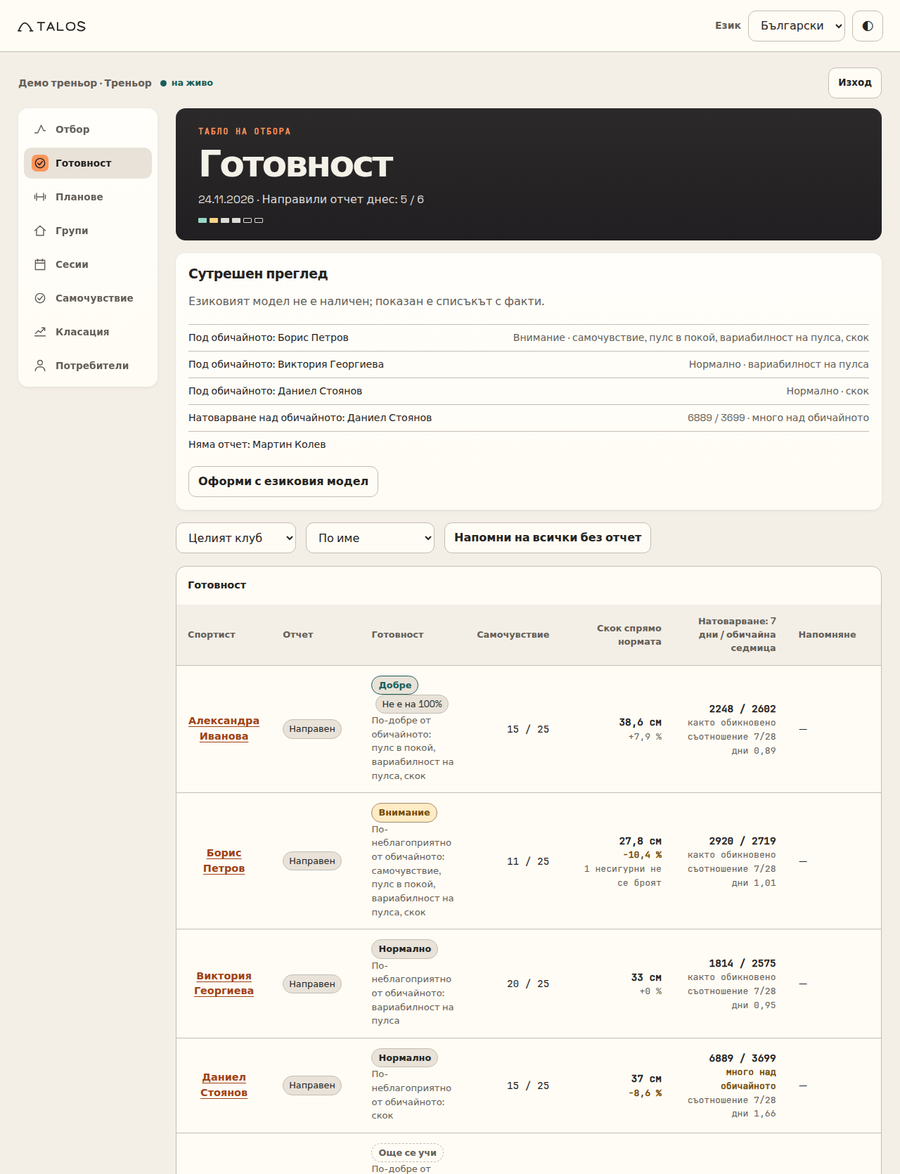
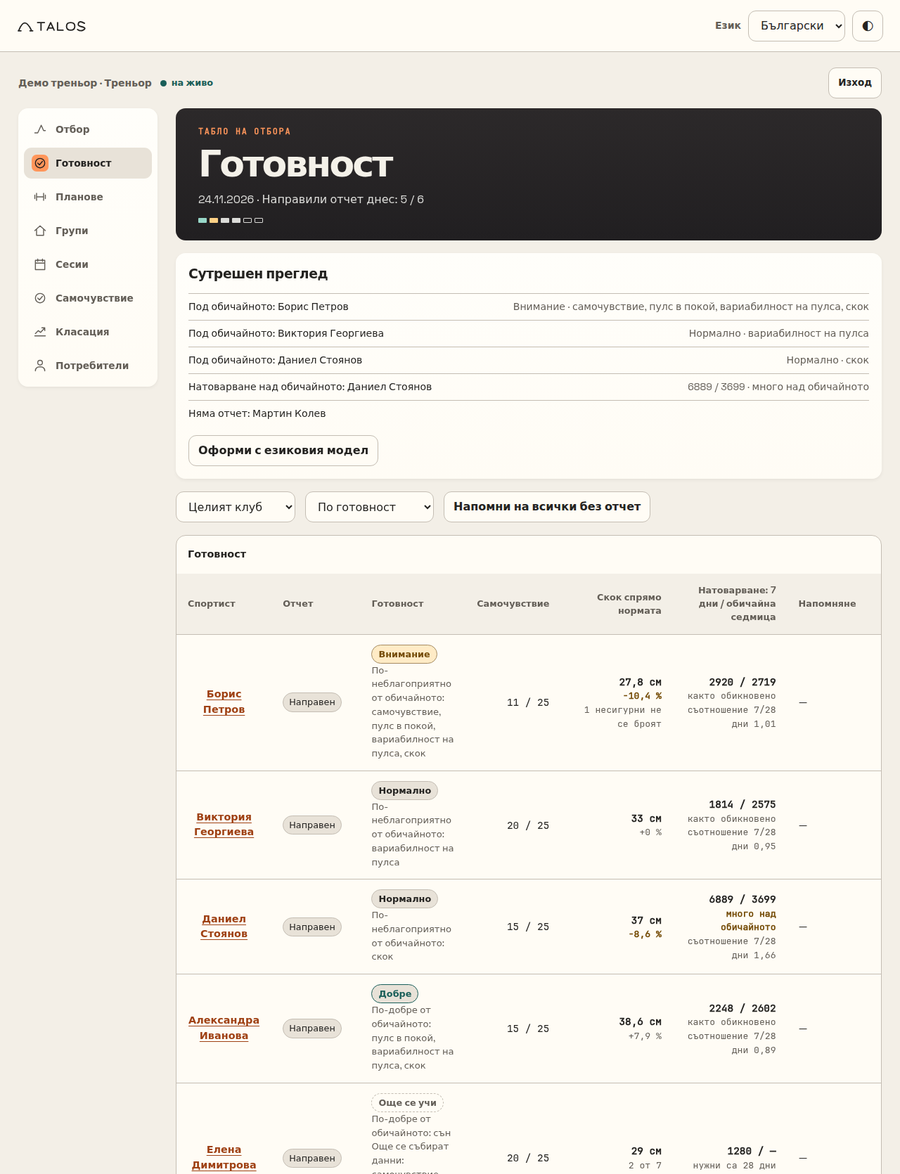
Close the staff path for minors' data to an external model, and fix the stale facts round 4 found
With an external language model, assistant tools refuse requests about athletes under 18 and drop their rows from
list results for coaches and admins, and the coach's morning summary is phrased without their facts (the coach
still sees them in the plain list). Tests cover the staff path, the digest, and a local-model control. The app,
dashboard and documents describe the rule. Dated verification lines, the AI-tools draft and the guide name the
current version; the documentation's coach-board screenshot shows the default state instead of a test server
without a model.

diff --git a/server/static/dashboard.js b/server/static/dashboard.js
@@ -89,7 +89,7 @@ const dictionary = {
     unclear:'Неясно', repsCount:'Повторения', partialCount:'Частични', unclearCount:'Неясни', worstRep:'Най-слабо',
     side:'Страна', viewLabel:'Изглед', front:'Отпред', sideView:'Отстрани', unclear_reps:'Неясни повторения',
     hipBelowKnee:'Таз под коляното', noForm:'Още няма записи на техника.', formWarnNote:'Частичните и неясните повторения се броят отделно.',
-    assistantIntro:'Питайте за тренировки, хранене и тестове. Всяка промяна се потвърждава от Вас.'+' Съобщенията Ви и данните, нужни за отговора, се изпращат на езиковия модел на клуба, който може да е облачна услуга; видео никога. Под 18 години асистентът работи само с модел на самия клуб.',
+    assistantIntro:'Питайте за тренировки, хранене и тестове. Всяка промяна се потвърждава от Вас.'+' Съобщенията Ви и данните, нужни за отговора, се изпращат на езиковия модел на клуба, който може да е облачна услуга; видео никога. Данни на спортисти под 18 години отиват само към модел на самия клуб.',
     assistantPlaceholder:'Напишете съобщение…', messageLabel:'Съобщение', ask:'Попитайте', assistantReply:'Отговор',
     proposalTitle:'Предложени действия', proposalNote:'Нищо не се записва, докато не потвърдите.', confirm:'Потвърдете',
     assistantUnavailable:'Помощникът с изкуствен интелект не е наличен в момента. Опитайте по-късно.', assistantApplied:'Действията са приложени.',
@@ -184,7 +184,7 @@ const dictionary = {
     unclear:'Unclear', repsCount:'Reps', partialCount:'Partial', unclearCount:'Unclear', worstRep:'Worst',
     side:'Side', viewLabel:'View', front:'Front', sideView:'Side', unclear_reps:'Unclear reps',
     hipBelowKnee:'Hips below knee', noForm:'No form sets yet.', formWarnNote:'Partial and unclear repetitions are counted separately.',
-    assistantIntro:'Ask about training, nutrition and testing. Every change is confirmed by you.'+' Your messages and the data needed to answer go to the club\'s language model, which may be a cloud service; never video. Under 18, the assistant works only with a model run by the club itself.',
+    assistantIntro:'Ask about training, nutrition and testing. Every change is confirmed by you.'+' Your messages and the data needed to answer go to the club\'s language model, which may be a cloud service; never video. Data of athletes under 18 goes only to a model run by the club itself.',
     assistantPlaceholder:'Type a message…', messageLabel:'Message', ask:'Ask', assistantReply:'Reply',
     proposalTitle:'Proposed actions', proposalNote:'Nothing is saved until you confirm.', confirm:'Confirm',
     assistantUnavailable:'The AI assistant is unavailable right now. Try again later.', assistantApplied:'The actions were applied.',

diff --git a/server/assistant_api.py b/server/assistant_api.py
@@ -185,6 +185,24 @@ MINOR_CLOUD_DETAIL = ("The assistant uses an external (cloud) language model, so
                       "Асистентът използва външен (облачен) езиков модел и не е достъпен за спортисти под 18 години.")
 
 
+def minor_ids(db):
+    return {row[0] for row in db.execute("SELECT id FROM users WHERE role = 'athlete' AND under_18 = 1")}
+
+
+def without_minors(value, minors):
+    """Drop every record that belongs to an athlete under 18 (by athlete_id, or a user row by id) from a result."""
+    if isinstance(value, list):
+        return [without_minors(item, minors) for item in value
+                if not (isinstance(item, dict) and (item.get("athlete_id") in minors or
+                                                    ("name" in item and item.get("id") in minors)))]
+    if isinstance(value, dict):
+        return {key: without_minors(item, minors) for key, item in value.items()}
+    return value
+
+
+MINOR_DATA_DETAIL = "Data of athletes under 18 is not sent to an external (cloud) language model."
+
+
 def model_client():
     url = os.environ.get("JUMPSCAN_LLM_URL", "").strip()
     model = os.environ.get("JUMPSCAN_LLM_MODEL", "").strip()
@@ -532,6 +550,10 @@ def install(app, h, operations):
             return {"error": "Unknown tool"}
         try:
             args = tool.arguments(raw)
+            # Privacy: with an external model, nothing about a minor goes into the conversation, whoever asks.
+            minors = minor_ids(db) if model_is_external() else set()
+            if args.get("athlete_id") in minors:
+                return {"status": 403, "error": MINOR_DATA_DETAIL}
             result = invoke(name, tool, args, user, db)
         except ValidationError as error:
             kind = error.errors(include_input=False, include_url=False, include_context=False)[0]["type"]
@@ -541,7 +563,7 @@ def install(app, h, operations):
         except HTTPException as error:
             return {"status": error.status_code, "error": error.detail}
         if tool.body is None:
-            return {"data": result}
+            return {"data": without_minors(result, minors) if minors else result}
         action = {"tool": name, "args": args, "human_summary": describe_action(name, tool, args)}
         actions.append(action)
         return {"pending_confirmation": action["human_summary"]}

diff --git a/server/test_readiness.py b/server/test_readiness.py
@@ -423,3 +423,36 @@ def test_seeded_board_shows_every_state():
             assert {"good", "normal", "take_care", "still_learning"} <= statuses, statuses
             assert any(not row["checked_in"] for row in rows)
             assert any(row["load_ready"] for row in rows) and any(row["jump"]["value"] is not None for row in rows)
+
+
+def test_external_model_never_receives_a_minors_digest_facts(api, auth, monkeypatch):
+    client, path = api
+    sent = []
+
+    class Reply:
+        content = b"{}"
+        def raise_for_status(self): pass
+        def json(self): return {"choices": [{"message": {"content": "Summary."}}]}
+
+    class Client:
+        def __init__(self, **options): pass
+        def __enter__(self): return self
+        def __exit__(self, *error): return False
+        def post(self, url, headers=None, json=None):
+            sent.append(json)
+            return Reply()
+
+    monkeypatch.setenv("JUMPSCAN_LLM_URL", "https://integrate.api.nvidia.com/v1")
+    monkeypatch.setenv("JUMPSCAN_LLM_MODEL", "cloud")
+    monkeypatch.setattr(readiness_api, "httpx", SimpleNamespace(
+        Client=Client, Timeout=readiness_api.httpx.Timeout, HTTPError=readiness_api.httpx.HTTPError))
+    minor = user_id(path, "athlete7")
+    with main.database(path) as db:
+        db.execute("UPDATE users SET under_18 = 1 WHERE id = ?", (minor,))
+        db.execute("DELETE FROM checkins WHERE athlete_id = ? AND day = ?", (minor, day()))
+        db.commit()
+    result = client.get("/api/team/digest?phrased=true&language=en", headers=auth("coach")).json()
+    assert any(fact["athlete_id"] == minor for fact in result["facts"])  # the coach still sees every fact
+    payload = json.dumps(sent)
+    assert sent and f'"athlete_id": {minor}' not in payload and f'"athlete_id": {minor},' not in payload
+    assert result["phrased_by"] == "external_model"

diff --git a/server/test_assistant.py b/server/test_assistant.py
@@ -707,3 +707,24 @@ def test_minor_athletes_do_not_reach_an_external_model(api, auth, fake_model, mo
     assert chat(client, auth("athlete2")).status_code == 200  # adults keep the assistant
     assert assistant_api.model_is_external("http://192.168.0.150:18080/v1") is False
     assert assistant_api.model_is_external("http://localhost:8080/v1") is False
+
+
+def test_staff_tools_never_send_a_minors_data_to_an_external_model(api, auth, fake_model, monkeypatch):
+    client, path = api
+    minor = user_id(path, "athlete4")
+    with main.database(path) as db:
+        db.execute("UPDATE users SET under_18 = 1 WHERE id = ?", (minor,))
+        db.commit()
+    monkeypatch.setenv("JUMPSCAN_LLM_URL", "https://integrate.api.nvidia.com/v1")
+    observed = fake_model(calls(("athlete_summary", {"athlete_id": minor}), ("team_summaries", {}),
+                                ("list_checkins", {"athlete_id": minor})), "Done.")
+    assert chat(client, auth("coach")).status_code == 200
+    summary, team, checkins = results(observed, 1)
+    assert summary["status"] == 403 and checkins["status"] == 403
+    assert all(row.get("id") != minor and row.get("athlete_id") != minor for row in team["data"])
+    # With a local model the coach sees the minor as before, so the filter above is what removed them.
+    monkeypatch.setenv("JUMPSCAN_LLM_URL", "http://127.0.0.1:1/v1")
+    observed = fake_model(calls(("athlete_summary", {"athlete_id": minor}), ("team_summaries", {})), "Done.")
+    assert chat(client, auth("coach")).status_code == 200
+    summary, team = results(observed, 1)
+    assert "data" in summary and any(row.get("id") == minor or row.get("athlete_id") == minor for row in team["data"])

diff --git a/server/readiness_api.py b/server/readiness_api.py
@@ -476,11 +476,16 @@ def install(app, h):
             if key not in digest_cache:  # regenerate only when the facts change; keep the cache small
                 if len(digest_cache) >= 64:
                     digest_cache.pop(next(iter(digest_cache)))
-                text = phrase_digest(facts, language)
+                # Privacy: an external model never receives facts about athletes under 18.
+                sent = facts
+                if assistant_api.model_is_external():
+                    minors = assistant_api.minor_ids(db)
+                    sent = [fact for fact in facts if fact["athlete_id"] not in minors]
+                text = phrase_digest(sent, language) if sent else None
                 if text is None:
                     return result
                 digest_cache[key] = text
-            result["text"], result["phrased_by"] = digest_cache[key], "local_model"
+            result["text"], result["phrased_by"] = digest_cache[key], "external_model" if assistant_api.model_is_external() else "local_model"
         return result
 
     return {"list_training_sessions": list_sessions, "readiness": readiness, "training_load": load,

diff --git a/docs/ai-instrumenti.md b/docs/ai-instrumenti.md
@@ -8,7 +8,7 @@
 
 Тези факти са проверими от всеки, който отвори кода:
 
-- Историята в Git (клон `stage`, версия 1.3.0-beta8) съдържа 263 записа от 16 до 22 ноември 2026 г.,
+- Историята в Git (клон `stage`, версия 1.4.0-beta14) съдържа 346 записа от 16 до 24 ноември 2026 г.,
   всички с един и същ автор в Git (`storm546`). Git показва кой е записал промяната, а не кой или какво
   е написало текста ѝ. В съобщенията на записите няма редове за съавторство на инструмент.
 - `PLAN.md` описва разделение на работата между „оркестратор“ и „работници“: работник за `server/`
@@ -21,8 +21,9 @@
   51 файла `codex-*.log` (Codex), файлове `hermes-*.log` (агент Hermes) и отчети `out-*.txt` от
   работниците. Тези документи за журито (версия от 23.11.2026 г.) са обновени от работник Claude Code
   (Anthropic) по зададена задача.
-- Системата има и функция „AI помощник“ за потребителите. Тя е част от продукта, работи на собствен
-  модел на клуба и не е инструмент за разработка; описана е в `SPEC.md`, раздел 6.4.
+- Системата има и функция „AI помощник“ за потребителите. Тя е част от продукта, работи с езиковия
+  модел, който клубът е настроил (на сървъра на живо: облачен модел на NVIDIA; данни на спортисти под 18 години
+  не се изпращат към него) и не е инструмент за разработка; описана е в `SPEC.md`, раздел 6.4.
 
 ## 2. Инструменти при разработката
 

diff --git a/docs/dokumentacia.md b/docs/dokumentacia.md
@@ -127,8 +127,8 @@ Landmarker (тежък модел за видео, лек за живо прос
 без мрежа). Python 3.13 с FastAPI и SQLite за сървъра; пароли със scrypt и сол; потокът от събития се
 чете с `fetch`, така че токенът не попада в адрес. Езиковият модел е зад съвместим с OpenAI адрес
 (`JUMPSCAN_LLM_URL`, резервни модели в `JUMPSCAN_LLM_FALLBACK`): локален модел или облачна услуга; при
-облачна услуга въпросите и прочетените данни напускат клубния сървър, затова спортист под 18 години
-получава отказ (403). Без модел помощникът връща 503, а останалото работи.
+облачна услуга въпросите и прочетените данни напускат клубния сървър, затова данни на спортисти под 18
+години не се изпращат натам (отказ 403 за тях, филтър в отговорите за треньора). Без модел помощникът връща 503, а останалото работи.
 
 Алгоритми (подробно в `formuli.md`): ъгли от триизмерните точки; височина h = g·t²/8 от времето на
 полет; базова стойност и „по-различно от обичайното“ при разлика над 0,5 стандартни отклонения и

diff --git a/docs/vaprosi.md b/docs/vaprosi.md
@@ -242,7 +242,8 @@ Facts под ODbL и източникът се пази при всяка хра
 **29. „Какви данни вижда AI помощникът и къде отиват?“**
 Помощникът работи с езиков модел зад съвместим с OpenAI адрес — локален или облачен; при облачен
 модел въпросът и прочетените от инструментите данни напускат клубния сървър, затова при облачен модел
-спортист под 18 години получава отказ и данните му не излизат. Видео не излиза никога. Вижда само
+данни на спортист под 18 години не излизат: той получава отказ, а от отговорите за треньора и от
+сутрешния преглед те се филтрират. Видео не излиза никога. Вижда само
 това, което влезлият потребител има право да види, защото инструментите му са същите проверени
 операции като REST. Нищо не се записва преди „Потвърдете“, а потвърждението проверява правата отново.
 Пазят се само въпросът и крайният отговор, до 30 дни, и се изтриват с личните данни. Тестовете

diff --git a/docs/validacia.md b/docs/validacia.md
@@ -320,9 +320,8 @@ YouTube с по един скок: различни хора, камери, ра
 
 ## 9. Автоматични тестове
 
-Състояние към 23.11.2026 г. Сървърът е проверен върху кода на версия 1.3.0-beta8 (stage 5ca568e) на тази
-дата. Броят за ядрото е от отчета на машината за изграждане от 22.11.2026 г.; ядрото не е променяно след
-него.
+Състояние към 24.11.2026 г. Сървърът е проверен върху кода на версия 1.4.0-beta14 (685 теста, 1 пропуснат);
+ядрото — 101 теста на машината за изграждане на същата дата.
 
 | Част | Резултат | Команда |
 |---|---|---|

diff --git a/docs/testovi-akaunti.md b/docs/testovi-akaunti.md
@@ -33,7 +33,8 @@
 
 ## Какво има в данните
 
-Проверено на 23.11.2026 г. с прясно `python -m server.seed --reset-demo` на кода от версия 1.3.0-beta8:
+Проверено на 23.11.2026 г. с прясно `python -m server.seed --reset-demo`; на 24.11.2026 г. и десетте профила влизат на
+сайта на живо (версия 1.4.0-beta14):
 
 - **Скокове.** На всеки спортист 10 теста (редуват се скок от място и от платформа, 60 кадъра в секунда)
   и сутрешни проверки за готовността; Александра има общо 66 записа. Един тест на всеки е с

diff --git a/docs/rakovodstvo.md b/docs/rakovodstvo.md
@@ -1,6 +1,6 @@
 # Ръководство за потребителя
 
-Спортистът използва приложението за Android (версия 1.3.0-beta8) и може да преглежда записите си и в
+Спортистът използва приложението за Android (версия 1.4.0-beta14) и може да преглежда записите си и в
 браузър. Треньорът и администраторът работят в браузър на https://jumpscan.stormlabs.cloud. Числата
 служат за проследяване и разговор с треньора, не за диагноза или медицински съвет.
 
